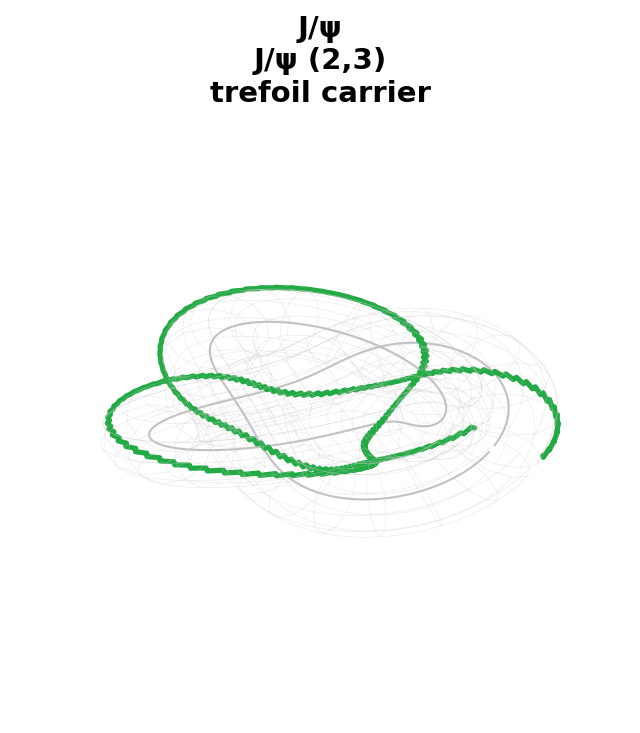
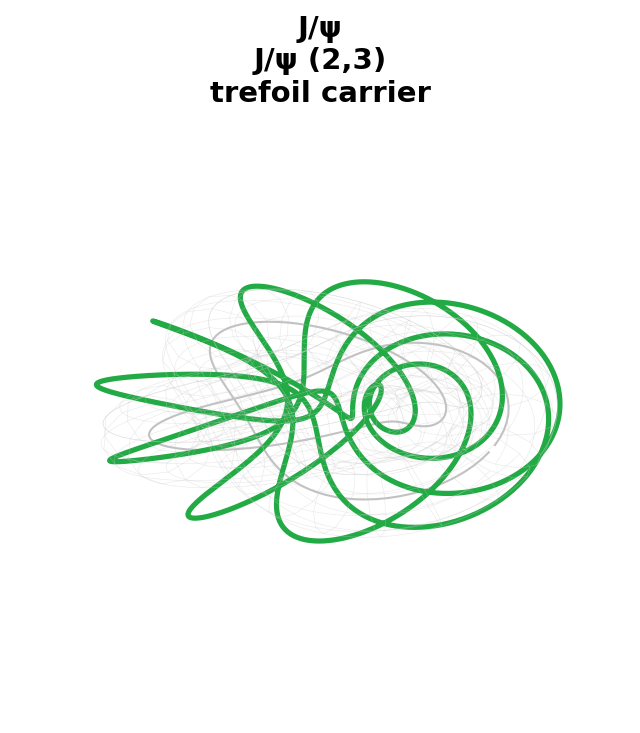
Knot viz v6: cable knot formula — correct poloidal winding counts
The resonance T(p_res, q_res) on a carrier T(p_k, q_k) is a cable
knot with combined windings:
  p_total = p_res × p_k
  q_total = q_res + p_res × q_k

Examples:
  Proton (1,4) on trefoil (2,3) → cable T(2,7): 7 poloidal windings
  J/ψ (2,3) on trefoil (2,3) → cable T(4,9): 9 poloidal windings
  Pentaquark (2,5) on cinquefoil (2,5) → cable T(4,15): 15 windings

The extra poloidal windings (4 for the proton = q_res) are now
clearly visible and countable. No more phantom oscillations from
frame torsion.

Changed region(s): [[0.125, 0.3602, 0.9062, 0.7503]]

diff --git a/docs/compendium/knot_viz.py b/docs/compendium/knot_viz.py
@@ -82,42 +82,31 @@ def torus_knot_path(p, q, R=1.0, r=0.3, N=1000):
     return X, Y, Z, t
 
 
-def resonance_on_knot_tube(center, p_res, q_res, r_tube=0.15, N=1500):
-    """Resonance winding on a knotted tube carrier."""
-    N_carrier = center.shape[1]
+def resonance_on_knot_tube(center, p_res, q_res, r_tube=0.15, N=1500,
+                            p_knot=2, q_knot=3, R=1.0, a=0.35):
+    """Resonance winding on a knotted tube carrier.
 
-    tangent = np.gradient(center, axis=1)
-    norms = np.sqrt(np.sum(tangent**2, axis=0))
-    tangent /= norms[np.newaxis, :]
+    The resonance T(p_res, q_res) on a carrier T(p_knot, q_knot)
+    is a CABLE KNOT: a torus knot on a slightly larger torus with
+    combined winding numbers:
 
-    if abs(tangent[2, 0]) < 0.9:
-        n0 = np.cross(tangent[:, 0], [0, 0, 1])
-    else:
-        n0 = np.cross(tangent[:, 0], [1, 0, 0])
-    n0 /= np.linalg.norm(n0)
+      p_total = p_res × p_knot
+      q_total = q_res + p_res × q_knot
 
-    normals = np.zeros_like(center)
-    normals[:, 0] = n0
-    for i in range(1, N_carrier):
-        n = normals[:, i-1] - np.dot(normals[:, i-1], tangent[:, i]) * tangent[:, i]
-        norm_val = np.linalg.norm(n)
-        if norm_val > 1e-10:
-            normals[:, i] = n / norm_val
-        else:
-            normals[:, i] = normals[:, i-1]
-    binormals = np.cross(tangent.T, normals.T).T
+    E.g., proton (1,4) on trefoil (2,3): cable = T(2, 7)
+          J/ψ (2,3) on trefoil (2,3): cable = T(4, 9)
+    """
+    p_total = p_res * p_knot
+    q_total = q_res + p_res * q_knot
 
-    t = np.linspace(0, 2*np.pi * p_res, N, endpoint=False)
-    s_idx = (t / (2*np.pi * p_res) * N_carrier).astype(int) % N_carrier
-    phi_res = q_res * t / p_res
+    t = np.linspace(0, 2*np.pi, N, endpoint=False)
 
-    r_res = r_tube * 1.05
-    rx = center[0, s_idx] + r_res * (np.cos(phi_res) * normals[0, s_idx] +
-                                      np.sin(phi_res) * binormals[0, s_idx])
-    ry = center[1, s_idx] + r_res * (np.cos(phi_res) * normals[1, s_idx] +
-                                      np.sin(phi_res) * binormals[1, s_idx])
-    rz = center[2, s_idx] + r_res * (np.cos(phi_res) * normals[2, s_idx] +
-                                      np.sin(phi_res) * binormals[2, s_idx])
+    # Cable knot on a torus of minor radius (a*R + r_tube)
+    a_cable = a + r_tube / R
+
+    rx = (R + a_cable * R * np.cos(q_total * t)) * np.cos(p_total * t)
+    ry = (R + a_cable * R * np.cos(q_total * t)) * np.sin(p_total * t)
+    rz = a_cable * R * np.sin(q_total * t)
 
     return rx, ry, rz
 
@@ -159,7 +148,8 @@ def render_particle(carrier_type, p_res, q_res, symbol, label,
                 linewidth=1.0, alpha=0.6)
 
         rx, ry, rz = resonance_on_knot_tube(
-            center, p_res, q_res, r_tube, N=2000)
+            center, p_res, q_res, r_tube, N=2000,
+            p_knot=p_k, q_knot=q_k, R=R, a=a)
         ax.plot(rx, ry, rz, color=path_color, linewidth=2.5,
                 solid_capstyle='round')
 
@@ -260,7 +250,9 @@ def render_gallery():
                               alpha=0.35)
             ax.plot(ctr[0], ctr[1], ctr[2], color='#999999', linewidth=0.8,
                     alpha=0.5)
-            rx, ry, rz = resonance_on_knot_tube(ctr, p, q, 0.35, 1200)
+            rx, ry, rz = resonance_on_knot_tube(
+                ctr, p, q, 0.35, 1200,
+                p_knot=2, q_knot=q_k, R=R, a=a)
             ax.plot(rx, ry, rz, color=color, linewidth=2.0)
 
         elif carrier == 'hopf':
